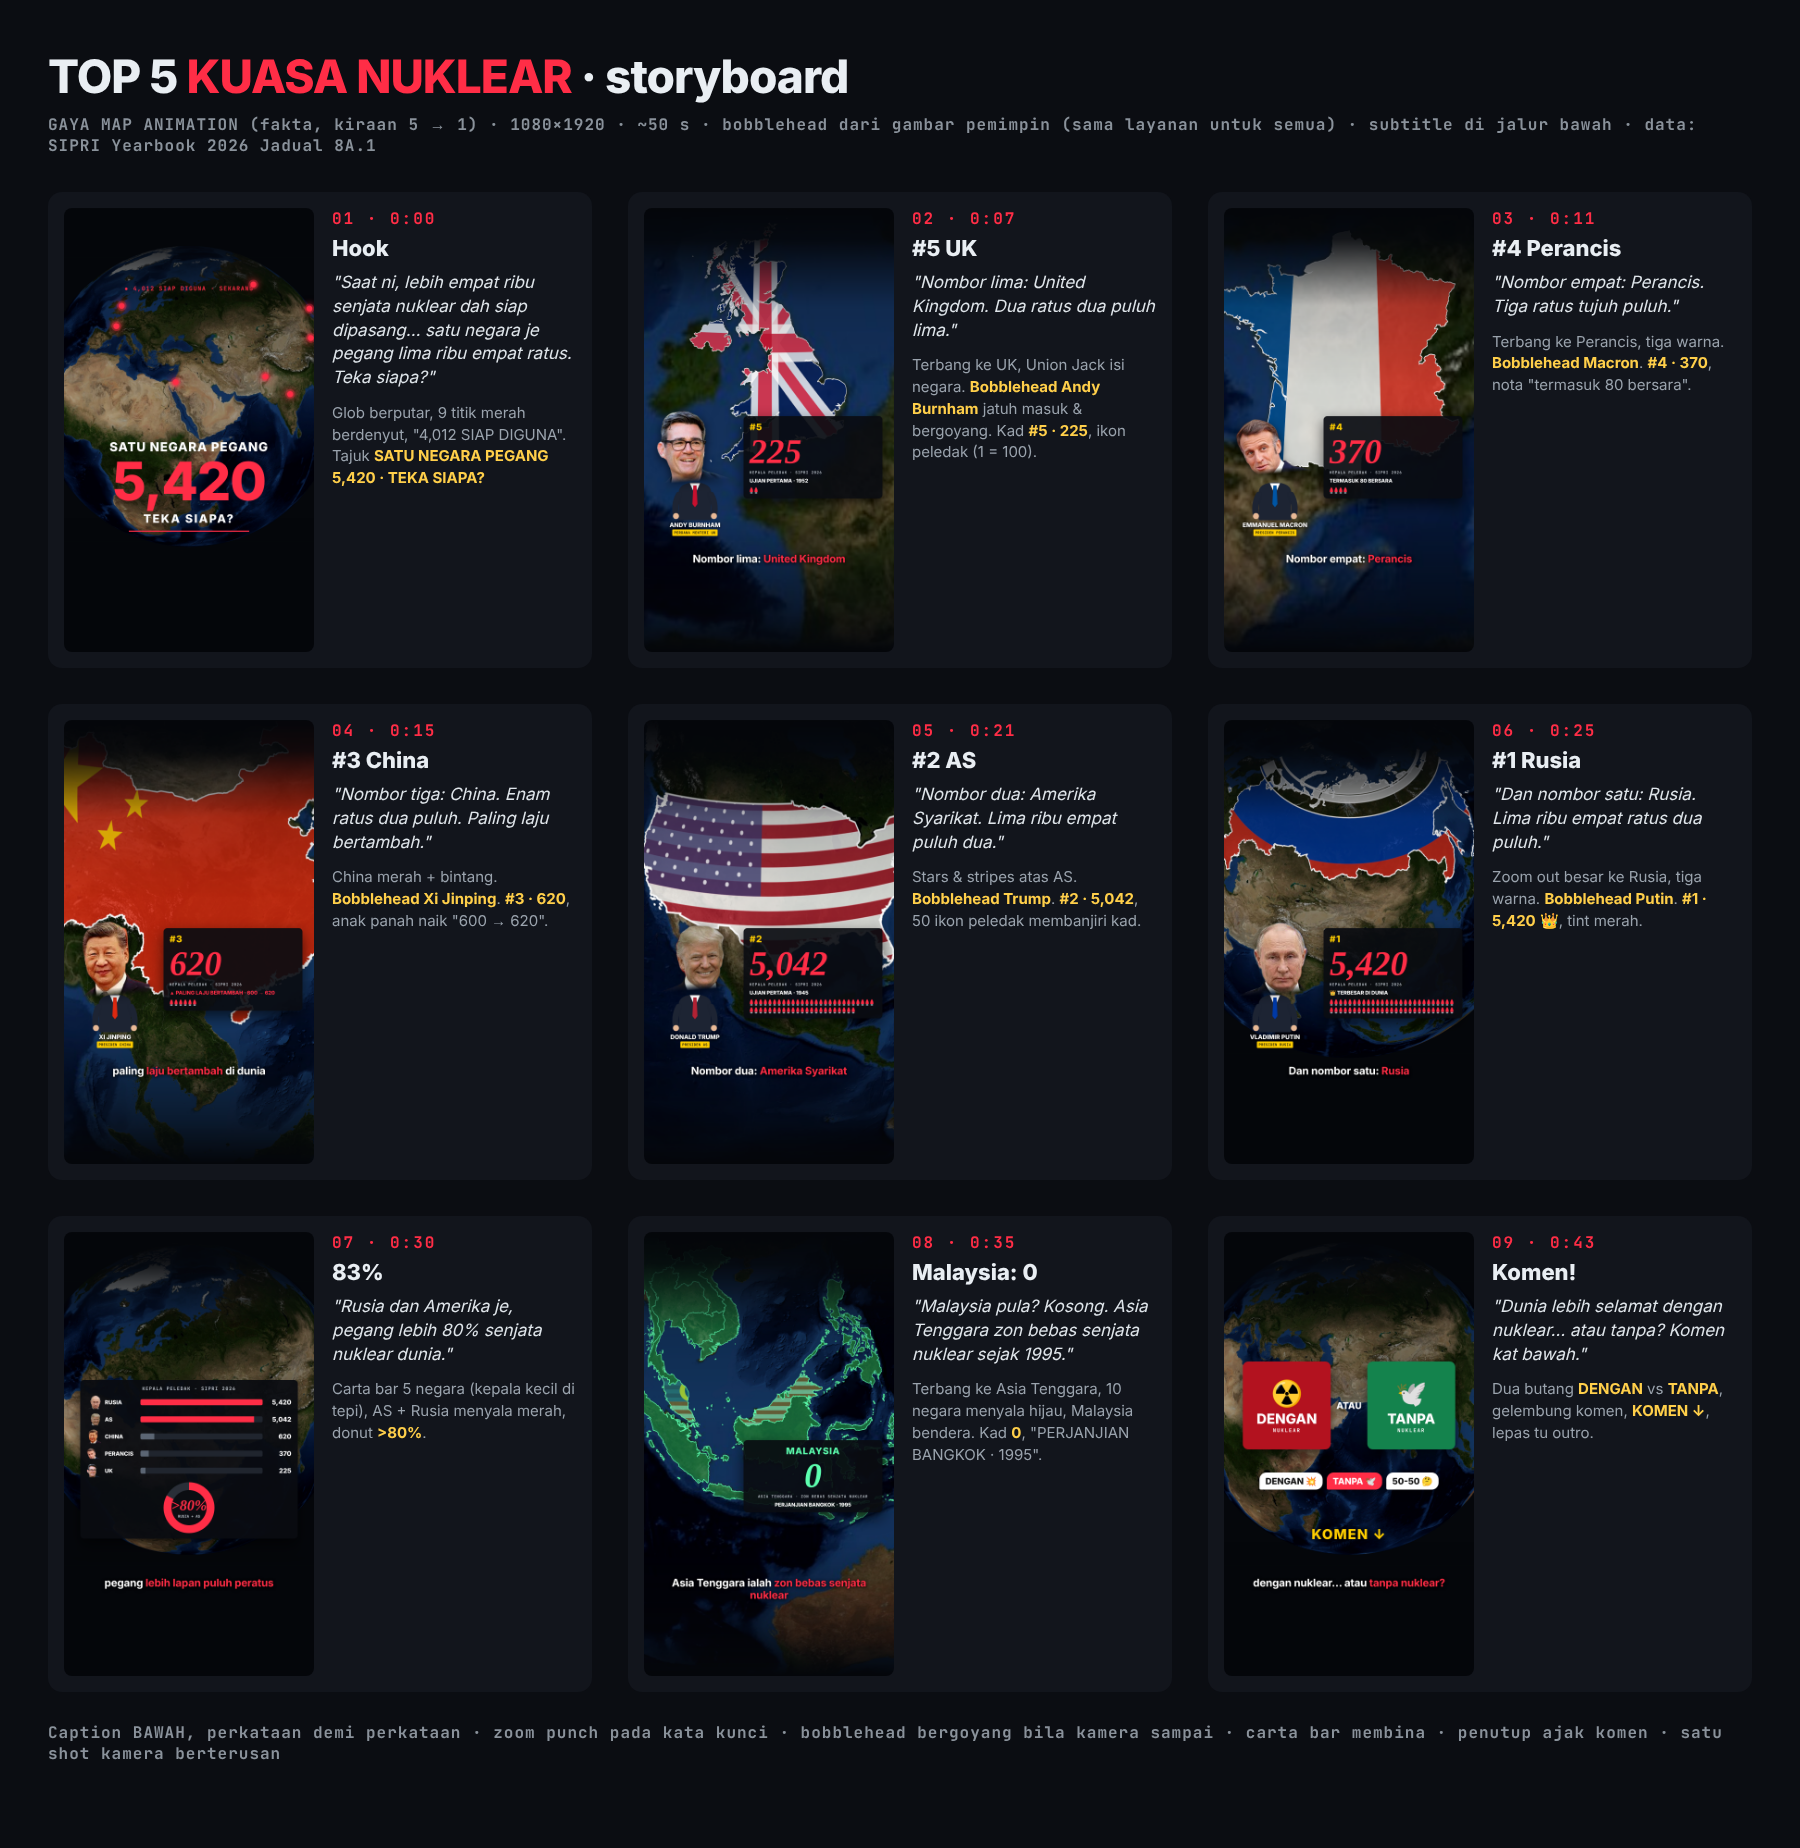
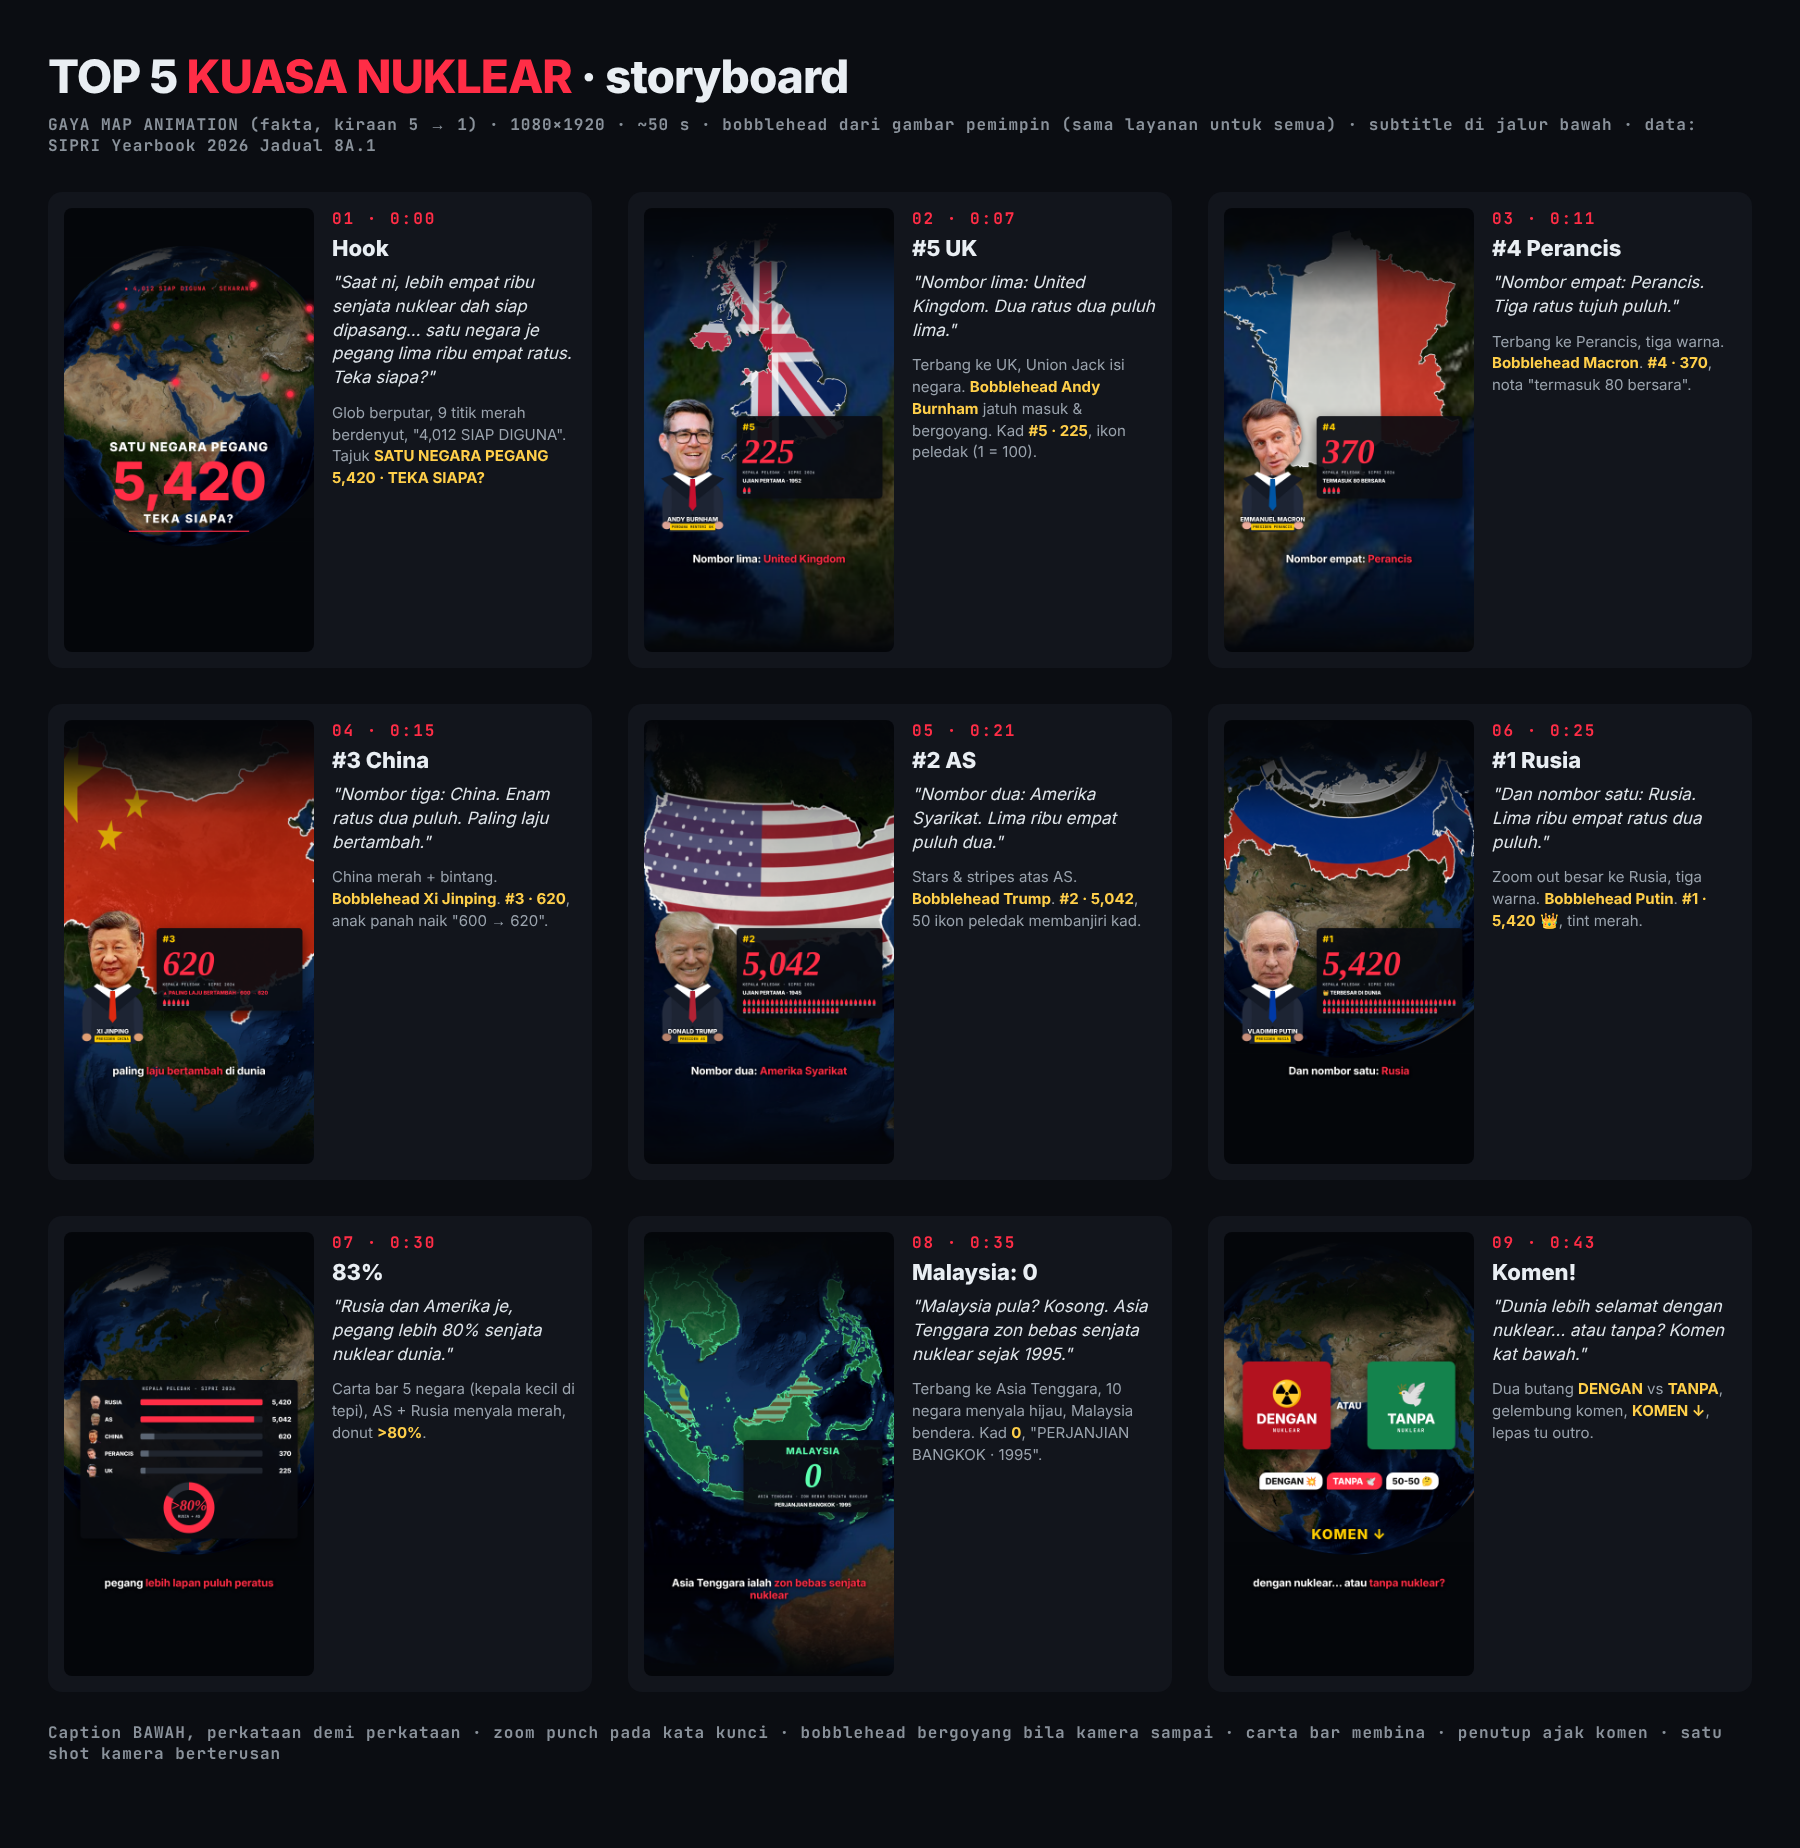
nuklear-video: rebuilt bobbleheads (jaw cut, skin-tone neck, collar over the join), head builder tool
Claude-Session: https://claude.ai/code/session_01GRVCpWmiskqov5jCfdMsbZ

diff --git a/nuklear-video/boards/frame.html b/nuklear-video/boards/frame.html
@@ -89,9 +89,9 @@ html,body{width:1080px;height:1920px;background:#05070b;overflow:hidden;font-fam
 .ppl .row{display:flex;justify-content:center;gap:40px;align-items:flex-end}.ppl .ic{display:flex;flex-wrap:wrap;gap:8px;justify-content:center;max-width:300px}
 .ppl .gl{font:800 26px Inter;margin-top:12px}.ppl .ft2{font:700 15px Mono;color:#8a929b;letter-spacing:1px;margin-top:16px}
 .stat .n{font-size:200px}
-.bob{position:absolute;width:300px;height:560px}.bob .body{position:absolute;left:50px;top:300px}.bob .head{position:absolute;left:50%;top:0;height:330px;transform-origin:50% 92%;margin-left:-160px;width:auto;max-width:330px;object-fit:contain;filter:drop-shadow(0 12px 18px rgba(0,0,0,.6))}
-.bob .np{position:absolute;top:495px;left:-20px;right:-20px;text-align:center}.bob .np b{display:block;font:800 26px Inter;color:#fff;text-shadow:0 2px 8px #000}.bob .np i{display:inline-block;font:700 15px Mono;font-style:normal;color:#0b0d12;background:#ffce00;padding:4px 8px;border-radius:3px;letter-spacing:1px;margin-top:4px}
-.rk{position:absolute;left:430px;right:50px;top:900px;background:rgba(10,12,17,.92);border-radius:16px;padding:22px 26px 20px;box-shadow:0 24px 60px rgba(0,0,0,.6)}
+.bob{position:absolute;width:340px;height:620px}.bob .bk,.bob .fr{position:absolute;left:0;top:300px}.bob .hh{position:absolute;filter:drop-shadow(0 10px 14px rgba(0,0,0,.5))}
+.bob .np{position:absolute;top:530px;left:0;right:0;text-align:center}.bob .np b{display:block;font:800 26px Inter;color:#fff;text-shadow:0 2px 8px #000}.bob .np i{display:inline-block;font:700 15px Mono;font-style:normal;color:#0b0d12;background:#ffce00;padding:4px 8px;border-radius:3px;letter-spacing:1px;margin-top:4px}
+.rk{position:absolute;left:400px;right:50px;top:900px;background:rgba(10,12,17,.92);border-radius:16px;padding:22px 26px 20px;box-shadow:0 24px 60px rgba(0,0,0,.6)}
 .rk .no{font:800 40px Inter;color:#ffce00;letter-spacing:2px}.rk .num{font:italic 700 150px/1 Serif;color:#ff2d46;margin:6px 0}.rk .kk{font:700 16px Mono;color:#c9d0d8;letter-spacing:2px}.rk .ex{font:800 22px Inter;color:#fff;margin-top:12px}.rk .ex.up{color:#ff2d46}
 .wh{display:flex;flex-wrap:wrap;gap:4px;margin-top:14px;max-height:190px;overflow:hidden}.wh svg{width:16px;height:30px}
 .nd{position:absolute;width:26px;height:26px;margin:-13px 0 0 -13px;border-radius:50%;background:#ff2d46;box-shadow:0 0 0 8px rgba(255,45,70,.35),0 0 30px 8px rgba(255,45,70,.6)}
@@ -267,7 +267,21 @@ const P = {
 };
 const LEADER = { uk: ["ANDY BURNHAM", "PERDANA MENTERI UK"], fr: ["EMMANUEL MACRON", "PRESIDEN PERANCIS"], cn: ["XI JINPING", "PRESIDEN CHINA"], us: ["DONALD TRUMP", "PRESIDEN AS"], ru: ["VLADIMIR PUTIN", "PRESIDEN RUSIA"] };
 const TIE = { uk: "#C8102E", fr: "#0055A4", cn: "#DE2910", us: "#B22234", ru: "#0039A6" };
-const bobble = (k, x, y, rot = -4) => html(`<div class="bob" style="left:${x}px;top:${y}px"><div class="body"><svg width="200" height="190" viewBox="0 0 200 190"><path d="M30 190 L30 70 Q30 30 100 26 Q170 30 170 70 L170 190Z" fill="#1d2433"/><path d="M78 30 L100 80 L122 30Z" fill="#fff"/><path d="M93 40 L107 40 L111 120 L100 134 L89 120Z" fill="${TIE[k]}"/><path d="M30 80 Q8 120 18 170" stroke="#1d2433" stroke-width="26" fill="none" stroke-linecap="round"/><path d="M170 80 Q192 120 182 170" stroke="#1d2433" stroke-width="26" fill="none" stroke-linecap="round"/><circle cx="18" cy="172" r="13" fill="#e8b996"/><circle cx="182" cy="172" r="13" fill="#e8b996"/></svg></div><img class="head" src="../assets/leaders/${k}-head.png" style="transform:rotate(${rot}deg)"><div class="np"><b>${LEADER[k][0]}</b><i>${LEADER[k][1]}</i></div></div>`);
+const BOB = await (await fetch("../assets/leaders/bobble.json")).json();
+// bobblehead: cartoon suit (back) + neck in sampled skin tone, real head cut at the jaw, collar + tie in front hides the join
+function bobbleHTML(k, rot = 0) {
+  const m = BOB[k], nw = m.fw * 0.46, sk = m.skin, t = TIE[k];
+  return `<svg class="bk" width="340" height="300" viewBox="0 0 340 300"><rect x="${170 - nw / 2}" y="0" width="${nw}" height="70" fill="${sk}"/><rect x="${170 - nw / 2}" y="0" width="${nw}" height="70" fill="rgba(0,0,0,.2)"/>
+    <path d="M70 300 L70 120 Q74 66 170 56 Q266 66 270 120 L270 300Z" fill="#1d2433"/>
+    <path d="M78 92 Q40 110 38 170 L40 262 Q58 272 76 262 L80 180Z" fill="#232b3d"/><path d="M262 92 Q300 110 302 170 L300 262 Q282 272 264 262 L260 180Z" fill="#232b3d"/>
+    <ellipse cx="58" cy="272" rx="20" ry="17" fill="${sk}"/><ellipse cx="282" cy="272" rx="20" ry="17" fill="${sk}"/><circle cx="170" cy="230" r="5" fill="#0d111a"/><circle cx="170" cy="262" r="5" fill="#0d111a"/></svg>
+  <img class="hh" src="../assets/leaders/${k}-head.png" style="left:${170 - m.ax}px;top:${360 - m.h}px;width:${m.w}px;height:${m.h}px;transform-origin:${m.ax}px ${m.h - 10}px;transform:rotate(${rot}deg)">
+  <svg class="fr" width="340" height="300" viewBox="0 0 340 300"><path d="M${170 - nw * 0.75} 52 L170 112 L${170 + nw * 0.75} 52 L${170 + nw * 0.62} 40 L170 70 L${170 - nw * 0.62} 40Z" fill="#fff"/>
+    <path d="M${170 - nw * 0.75} 52 L170 112 L${170 - nw * 0.2} 160 L${170 - nw * 1.2} 70Z" fill="#141a26"/><path d="M${170 + nw * 0.75} 52 L170 112 L${170 + nw * 0.2} 160 L${170 + nw * 1.2} 70Z" fill="#141a26"/>
+    <path d="M160 72 L180 72 L186 190 L170 210 L154 190Z" fill="${t}"/></svg>
+  <div class="np"><b>${LEADER[k][0]}</b><i>${LEADER[k][1]}</i></div>`;
+}
+const bobble = (k, x, y, rot = -3) => html(`<div class="bob" style="left:${x}px;top:${y}px">${bobbleHTML(k, rot)}</div>`);
 const warheads = (n) => `<div class="wh">${Array.from({ length: n }, (_, i) => `<svg width="22" height="40" viewBox="0 0 22 40"><path d="M11 0 Q22 14 20 30 L2 30 Q0 14 11 0Z" fill="${i < n ? "#ff2d46" : "#333"}"/><rect x="4" y="31" width="14" height="8" rx="2" fill="#9aa3ad"/></svg>`).join("")}</div>`;
 const rank = (r, n, k, extra = "", icons = 0) => html(`<div class="rk"><div class="no">#${r}</div><div class="num">${n}</div><div class="kk">KEPALA PELEDAK · SIPRI 2026</div>${extra}${icons ? warheads(icons) : ""}</div>`);
 const FR = {
@@ -276,15 +290,15 @@ const FR = {
     html(`<div class="chip" style="top:330px">● 4,012 SIAP DIGUNA · SEKARANG</div>`);
     html(`<div class="title" style="top:1000px"><div class="a">SATU NEGARA PEGANG</div><div class="b"><span>5,420</span></div><div class="c">TEKA SIAPA?</div><div class="ln"></div></div>`); },
   2() { flagFill("fUK", UKf, { lon0: -9, lon1: 3, lat0: 49, lat1: 61, ppd: 120 }, P.uk); g.setView({ lat: 54.5, lon: -3, dist: 0.55, tilt: 14, yShift: 0.2 });
-    bobble("uk", 70, 860); rank(5, "225", "uk", `<div class="ex">UJIAN PERTAMA · 1952</div>`, 2); capB(`Nombor lima: <span class="r">United Kingdom</span>`); },
+    bobble("uk", 40, 800); rank(5, "225", "uk", `<div class="ex">UJIAN PERTAMA · 1952</div>`, 2); capB(`Nombor lima: <span class="r">United Kingdom</span>`); },
   3() { flagFill("fFR", FRf, { lon0: -6, lon1: 10, lat0: 41, lat1: 52, ppd: 100 }, P.fr); g.setView({ lat: 47, lon: 2.5, dist: 0.5, tilt: 14, yShift: 0.2 });
-    bobble("fr", 70, 860); rank(4, "370", "fr", `<div class="ex">TERMASUK 80 BERSARA</div>`, 4); capB(`Nombor empat: <span class="r">Perancis</span>`); },
+    bobble("fr", 40, 800); rank(4, "370", "fr", `<div class="ex">TERMASUK 80 BERSARA</div>`, 4); capB(`Nombor empat: <span class="r">Perancis</span>`); },
   4() { flagFill("fCN", CNf, { lon0: 72, lon1: 136, lat0: 17, lat1: 55, ppd: 20 }, P.cn); g.setView({ lat: 36, lon: 104, dist: 1.5, tilt: 10, yShift: 0.2 });
-    bobble("cn", 70, 860); rank(3, "620", "cn", `<div class="ex up">▲ PALING LAJU BERTAMBAH · 600 → 620</div>`, 6); capB(`paling <span class="r">laju bertambah</span> di dunia`); },
+    bobble("cn", 40, 800); rank(3, "620", "cn", `<div class="ex up">▲ PALING LAJU BERTAMBAH · 600 → 620</div>`, 6); capB(`paling <span class="r">laju bertambah</span> di dunia`); },
   5() { flagFill("fUS", USf, { lon0: -172, lon1: -64, lat0: 18, lat1: 72, ppd: 12 }, P.us); g.setView({ lat: 42, lon: -100, dist: 2.0, tilt: 8, yShift: 0.2 });
-    bobble("us", 70, 860); rank(2, "5,042", "us", `<div class="ex">UJIAN PERTAMA · 1945</div>`, 50); capB(`Nombor dua: <span class="r">Amerika Syarikat</span>`); },
+    bobble("us", 40, 800); rank(2, "5,042", "us", `<div class="ex">UJIAN PERTAMA · 1945</div>`, 50); capB(`Nombor dua: <span class="r">Amerika Syarikat</span>`); },
   6() { flagFill("fRU", RUf, { lon0: 19, lon1: 180, lat0: 41, lat1: 78, ppd: 10 }, P.ru); g.setView({ lat: 56, lon: 95, dist: 3.6, tilt: 6, yShift: 0.2 });
-    bobble("ru", 70, 860); rank(1, "5,420", "ru", `<div class="ex">👑 TERBESAR DI DUNIA</div>`, 54); capB(`Dan nombor satu: <span class="r">Rusia</span>`); },
+    bobble("ru", 40, 800); rank(1, "5,420", "ru", `<div class="ex">👑 TERBESAR DI DUNIA</div>`, 54); capB(`Dan nombor satu: <span class="r">Rusia</span>`); },
   7() { g.setView({ lat: 45, lon: 40, dist: 4.4, tilt: 4, yShift: 0.15 });
     const D = [["RUSIA", 5420, "ru"], ["AS", 5042, "us"], ["CHINA", 620, "cn"], ["PERANCIS", 370, "fr"], ["UK", 225, "uk"]];
     html(`<div class="bars5"><div class="k">KEPALA PELEDAK · SIPRI 2026</div>${D.map(([n, v, k], i) => `<div class="br ${i < 2 ? "hot" : ""}"><img src="../assets/leaders/${k}-head.png"><span class="nm">${n}</span><div class="bb"><div style="width:${v / 5420 * 100}%"></div></div><span class="v">${v.toLocaleString("en")}</span></div>`).join("")}<div class="donut"><b>&gt;80%</b><i>RUSIA + AS</i></div></div>`);

diff --git a/nuklear-video/tools/make_bobble.py b/nuklear-video/tools/make_bobble.py
@@ -1,0 +1,31 @@
+#!/usr/bin/env python3
+"""Leader photos -> bobblehead heads. assets/leaders/src/<k>.jpg -> <k>-head.png + bobble.json (anchor, skin tone).
+Needs rembg (u2net_human_seg) cutouts src/<k>-cut.png and opencv (haar face box)."""
+import cv2, os, json, numpy as np
+from PIL import Image, ImageFilter, ImageDraw
+D=os.path.join(os.path.dirname(os.path.dirname(os.path.abspath(__file__))),"assets","leaders"); os.chdir(D)
+casc=cv2.CascadeClassifier(os.path.join(cv2.data.haarcascades,'haarcascade_frontalface_default.xml'))
+HEAD_H=340; meta={}
+# chin (x face h), jaw start, jaw half-width at chin (x face w), x shift
+TW={'uk':(1.13,0.62,0.40,0.0),'cn':(1.12,0.6,0.40,0.0),'us':(1.10,0.6,0.35,0.0),'ru':(1.00,0.56,0.30,0.0)}
+# tilted head: hand-drawn keep polygon (source px) and chin x
+POLY={'fr':([(170,0),(420,0),(415,150),(388,190),(358,226),(326,256),(298,272),(272,270),(248,255),(232,228),(214,190),(190,140),(170,100)],290)}
+for k in ['uk','fr','cn','us','ru']:
+    src=cv2.imread(f'src/{k}.jpg'); gr=cv2.cvtColor(src,cv2.COLOR_BGR2GRAY)
+    fx,fy,fw,fh=max(casc.detectMultiScale(gr,1.05,4,minSize=(40,40)).tolist(), key=lambda r:r[2]*r[3])
+    cut=Image.open(f'src/{k}-cut.png').convert('RGBA')
+    al=cut.getchannel('A').filter(ImageFilter.MinFilter(3)).filter(ImageFilter.GaussianBlur(0.8)); cut.putalpha(al)
+    if k in POLY:
+        poly,cx=POLY[k]; m=Image.new('L',cut.size,0); ImageDraw.Draw(m).polygon(poly,fill=255); m=m.filter(ImageFilter.GaussianBlur(1.2))
+        a=np.array(cut).astype(float); a[:,:,3]*=np.array(m)/255; head=Image.fromarray(a.astype('uint8'),'RGBA')
+    else:
+        chinK,jawK,jw,dx=TW[k]; cx=fx+fw/2+dx*fw; chin=int(fy+fh*chinK); a=np.array(cut).astype(float); H,Wd=a.shape[:2]
+        yy=np.arange(H)[:,None]; xx=np.arange(Wd)[None,:]; jaw=fy+fh*jawK; t=np.clip((yy-jaw)/(chin-jaw),0,1)
+        w=np.where(yy>jaw, fw*(0.5-(0.5-jw)*t)*np.sqrt(np.clip(1-t**2.2,0,1))+2, 9999); w=np.where(yy>chin,0,w)
+        a[:,:,3]*=np.clip((w-np.abs(xx-cx))/3,0,1); head=Image.fromarray(a.astype('uint8'),'RGBA')
+    bb=head.getbbox(); head=head.crop(bb); s=HEAD_H/head.height; head=head.resize((round(head.width*s),HEAD_H),Image.LANCZOS)
+    rgb=cv2.cvtColor(src,cv2.COLOR_BGR2RGB); a0=int(fy+fh*0.5); a1=int(fy+fh*0.7)
+    patch=np.concatenate([rgb[a0:a1,int(fx+fw*0.2):int(fx+fw*0.33)].reshape(-1,3),rgb[a0:a1,int(fx+fw*0.67):int(fx+fw*0.8)].reshape(-1,3)])
+    lum=patch.mean(1); pc=patch[lum>=np.percentile(lum,60)]; skin='#%02x%02x%02x'%tuple(np.median(pc,0).astype(int))
+    head.save(f'{k}-head.png'); meta[k]=dict(w=head.width,h=HEAD_H,ax=round((cx-bb[0])*s,1),fw=round(fw*s,1),skin=skin); print(k,meta[k])
+json.dump(meta,open('bobble.json','w'))
